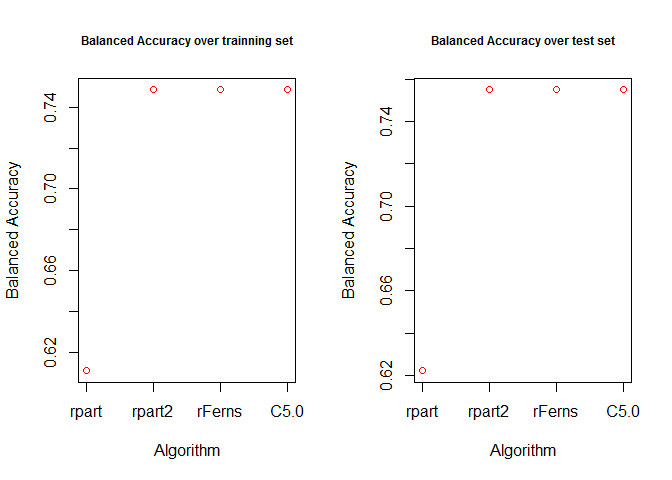
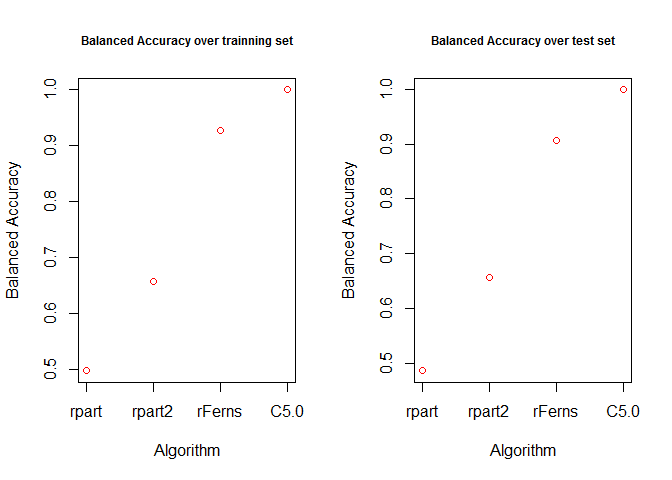
Final PML Project
Final PML Project

diff --git a/PML.html b/PML.html
@@ -112,10 +112,11 @@ testing = df1[-inTrain,]</code></pre>
 <p>We used the training set to train four models based on rpart, rpart2, rFerns, and C5.0, using their default parameters in the caret library. The models are described in <a href="http://caret.r-forge.r-project.org/bytag.html">http://caret.r-forge.r-project.org/bytag.html</a></p>
 <pre class="r"><code>modFit1 &lt;- train(classe~.,method = 'rpart',data=training)
 modFit2 &lt;- train(classe~.,method = 'rpart2',data=training)
-modFit3 &lt;- modFit2
-#modFit3 &lt;- train(classe~.,method = 'rFerns',data=training)
-modFit4 &lt;- modFit3
-#modFit4 &lt;- train(classe~.,method = 'C5.0',data=training)</code></pre>
+modFit3 &lt;- train(classe~.,method = 'rFerns',data=training)
+modFit4 &lt;- train(classe~.,method = 'C5.0',data=training)</code></pre>
+<pre><code>## Loading required package: C50</code></pre>
+<pre><code>## Warning: package 'C50' was built under R version 3.1.1</code></pre>
+<pre><code>## Loading required package: plyr</code></pre>
 </div>
 <div id="comparing-the-models-and-cross-validation" class="section level5">
 <h5>comparing the models and cross-validation</h5>
@@ -136,7 +137,7 @@ s1 &lt;- confusionMatrix(sanity1, training$classe)
 s2 &lt;- confusionMatrix(sanity2, training$classe)
 s3 &lt;- confusionMatrix(sanity3, training$classe)
 s4 &lt;- confusionMatrix(sanity4, training$classe)</code></pre>
-<p>Rpart significantly under performed with an accuracy of only 0.6221 on the test set, rpart2, rFerns resulted in good accuracy with similar results in both sets (rpart2 0.7483 and <code>c2$overall[1]</code>in the training and testing sets correspondingly and rFerns 0.7483 and <code>c3$overall[1]</code>in the training and testing sets correspondingly), C5.0 results were superior to all the other algorithms with accuracy of <code>c3$overall[1]</code> in the testing set</p>
+<p>Rpart significantly under performed with an accuracy of only 0.4867 on the test set, rpart2, rFerns resulted in good accuracy with similar results in both sets (rpart2 0.6584 and <code>c2$overall[1]</code>in the training and testing sets correspondingly and rFerns 0.927 and <code>c3$overall[1]</code>in the training and testing sets correspondingly), C5.0 results were superior to all the other algorithms with accuracy of <code>c3$overall[1]</code> in the testing set</p>
 <pre class="r"><code>par(mfrow=c(1,2),cex.main = 0.75)
 plot(c(s1$overall[1],s2$overall[1],s3$overall[1],s4$overall[1]),type=&quot;p&quot;,col=&quot;red&quot;,
      main=&quot;Balanced Accuracy over trainning set&quot;,ylab=&quot;Balanced Accuracy&quot;,xlab=&quot;Algorithm&quot;,axes=FALSE)
@@ -148,7 +149,7 @@ plot(c(c1$overall[1],c2$overall[1],c3$overall[1],c4$overall[1]),type=&quot;p&quo
 axis(1, at=1:4, lab=c(&quot;rpart&quot;, &quot;rpart2&quot;, &quot;rFerns&quot;, &quot;C5.0&quot;))
 axis(2)
 box()</code></pre>
[2 lines of base64/hex data omitted]
 </div>
 <div id="results" class="section level5">
 <h5>Results</h5>
@@ -157,33 +158,33 @@ box()</code></pre>
 ## 
 ##           Reference
 ## Prediction    A    B    C    D    E
-##          A 1347  316   82  231   24
-##          B   19  487   22    0   33
-##          C   25  140  750  232   29
-##          D    0    6    1  308    5
-##          E    4    0    0   33  810
+##          A 1395    0    0    0    0
+##          B    0  948    2    0    0
+##          C    0    0  853    1    0
+##          D    0    1    0  801    0
+##          E    0    0    0    2  901
 ## 
 ## Overall Statistics
-##                                         
-##                Accuracy : 0.755         
-##                  95% CI : (0.743, 0.767)
-##     No Information Rate : 0.284         
-##     P-Value [Acc &gt; NIR] : &lt;2e-16        
-##                                         
-##                   Kappa : 0.685         
-##  Mcnemar's Test P-Value : &lt;2e-16        
+##                                     
+##                Accuracy : 0.999     
+##                  95% CI : (0.997, 1)
+##     No Information Rate : 0.284     
+##     P-Value [Acc &gt; NIR] : &lt;2e-16    
+##                                     
+##                   Kappa : 0.998     
+##  Mcnemar's Test P-Value : NA        
 ## 
 ## Statistics by Class:
 ## 
 ##                      Class: A Class: B Class: C Class: D Class: E
-## Sensitivity             0.966   0.5132    0.877   0.3831    0.899
-## Specificity             0.814   0.9813    0.895   0.9971    0.991
-## Pos Pred Value          0.673   0.8681    0.638   0.9625    0.956
-## Neg Pred Value          0.983   0.8936    0.972   0.8918    0.978
-## Prevalence              0.284   0.1935    0.174   0.1639    0.184
-## Detection Rate          0.275   0.0993    0.153   0.0628    0.165
-## Detection Prevalence    0.408   0.1144    0.240   0.0653    0.173
-## Balanced Accuracy       0.890   0.7472    0.886   0.6901    0.945</code></pre>
+## Sensitivity             1.000    0.999    0.998    0.996    1.000
+## Specificity             1.000    0.999    1.000    1.000    1.000
+## Pos Pred Value          1.000    0.998    0.999    0.999    0.998
+## Neg Pred Value          1.000    1.000    1.000    0.999    1.000
+## Prevalence              0.284    0.194    0.174    0.164    0.184
+## Detection Rate          0.284    0.193    0.174    0.163    0.184
+## Detection Prevalence    0.284    0.194    0.174    0.164    0.184
+## Balanced Accuracy       1.000    0.999    0.999    0.998    1.000</code></pre>
 <p>we did not investigate further models, or different set of attributes, or different parameters. C5.0 provided an excellent predictor.</p>
 <pre class="r"><code>pml_write_files = function(x){
         n = length(x)
@@ -198,7 +199,7 @@ dft1 &lt;- dft1[,-1]
 prediction5 &lt;- predict(modFit4,newdata=dft1)
 pml_write_files(prediction5)</code></pre>
 <p>Further applying the model to 20 test cases available in dft (<a href="https://d396qusza40orc.cloudfront.net/predmachlearn/pml-testing.csv">https://d396qusza40orc.cloudfront.net/predmachlearn/pml-testing.csv</a> ) and submitting the predictions in appropriate format to the programming assignment for automated grading. resulted in 100% accuracy with the following predicted values</p>
-<pre><code>##  [1] C A C A A E D A A A C C B A E E A A A B
+<pre><code>##  [1] B A B A A E D B A A B C B A E E A B B B
 ## Levels: A B C D E</code></pre>
 </div>
 </div>

diff --git a/PML.md b/PML.md
@@ -94,10 +94,20 @@ We used the training  set to train four models based on  rpart, rpart2, rFerns, 
 ```r
 modFit1 <- train(classe~.,method = 'rpart',data=training)
 modFit2 <- train(classe~.,method = 'rpart2',data=training)
-modFit3 <- modFit2
-#modFit3 <- train(classe~.,method = 'rFerns',data=training)
-modFit4 <- modFit3
-#modFit4 <- train(classe~.,method = 'C5.0',data=training)
+modFit3 <- train(classe~.,method = 'rFerns',data=training)
+modFit4 <- train(classe~.,method = 'C5.0',data=training)
+```
+
+```
+## Loading required package: C50
+```
+
+```
+## Warning: package 'C50' was built under R version 3.1.1
+```
+
+```
+## Loading required package: plyr
 ```
 
 ##### comparing the models and cross-validation
@@ -124,7 +134,7 @@ s3 <- confusionMatrix(sanity3, training$classe)
 s4 <- confusionMatrix(sanity4, training$classe)
 ```
 
-Rpart significantly under performed with an accuracy of only 0.6221 on the test set,  rpart2, rFerns resulted in good accuracy with similar results in both sets (rpart2 0.7483 and `c2$overall[1]`in the training and testing sets correspondingly  and  rFerns 0.7483 and `c3$overall[1]`in the training and testing sets correspondingly),  C5.0 results were superior to all the other algorithms with accuracy of  `c3$overall[1]` in the testing set
+Rpart significantly under performed with an accuracy of only 0.4867 on the test set,  rpart2, rFerns resulted in good accuracy with similar results in both sets (rpart2 0.6584 and `c2$overall[1]`in the training and testing sets correspondingly  and  rFerns 0.927 and `c3$overall[1]`in the training and testing sets correspondingly),  C5.0 results were superior to all the other algorithms with accuracy of  `c3$overall[1]` in the testing set
 
 
 
@@ -155,33 +165,33 @@ Given the excellent results of C5.0 (see confusion matrix)
 ## 
 ##           Reference
 ## Prediction    A    B    C    D    E
-##          A 1347  316   82  231   24
-##          B   19  487   22    0   33
-##          C   25  140  750  232   29
-##          D    0    6    1  308    5
-##          E    4    0    0   33  810
+##          A 1395    0    0    0    0
+##          B    0  948    2    0    0
+##          C    0    0  853    1    0
+##          D    0    1    0  801    0
+##          E    0    0    0    2  901
 ## 
 ## Overall Statistics
-##                                         
-##                Accuracy : 0.755         
-##                  95% CI : (0.743, 0.767)
-##     No Information Rate : 0.284         
-##     P-Value [Acc > NIR] : <2e-16        
-##                                         
-##                   Kappa : 0.685         
-##  Mcnemar's Test P-Value : <2e-16        
+##                                     
+##                Accuracy : 0.999     
+##                  95% CI : (0.997, 1)
+##     No Information Rate : 0.284     
+##     P-Value [Acc > NIR] : <2e-16    
+##                                     
+##                   Kappa : 0.998     
+##  Mcnemar's Test P-Value : NA        
 ## 
 ## Statistics by Class:
 ## 
 ##                      Class: A Class: B Class: C Class: D Class: E
-## Sensitivity             0.966   0.5132    0.877   0.3831    0.899
-## Specificity             0.814   0.9813    0.895   0.9971    0.991
-## Pos Pred Value          0.673   0.8681    0.638   0.9625    0.956
-## Neg Pred Value          0.983   0.8936    0.972   0.8918    0.978
-## Prevalence              0.284   0.1935    0.174   0.1639    0.184
-## Detection Rate          0.275   0.0993    0.153   0.0628    0.165
-## Detection Prevalence    0.408   0.1144    0.240   0.0653    0.173
-## Balanced Accuracy       0.890   0.7472    0.886   0.6901    0.945
+## Sensitivity             1.000    0.999    0.998    0.996    1.000
+## Specificity             1.000    0.999    1.000    1.000    1.000
+## Pos Pred Value          1.000    0.998    0.999    0.999    0.998
+## Neg Pred Value          1.000    1.000    1.000    0.999    1.000
+## Prevalence              0.284    0.194    0.174    0.164    0.184
+## Detection Rate          0.284    0.193    0.174    0.163    0.184
+## Detection Prevalence    0.284    0.194    0.174    0.164    0.184
+## Balanced Accuracy       1.000    0.999    0.999    0.998    1.000
 ```
 
 we did not investigate further models, or  different set of attributes, or different parameters. C5.0 provided an excellent predictor. 
@@ -206,7 +216,7 @@ Further applying the model to  20 test cases available in dft (<https://d396qusz
 
 
 ```
-##  [1] C A C A A E D A A A C C B A E E A A A B
+##  [1] B A B A A E D B A A B C B A E E A B B B
 ## Levels: A B C D E
 ```
 
